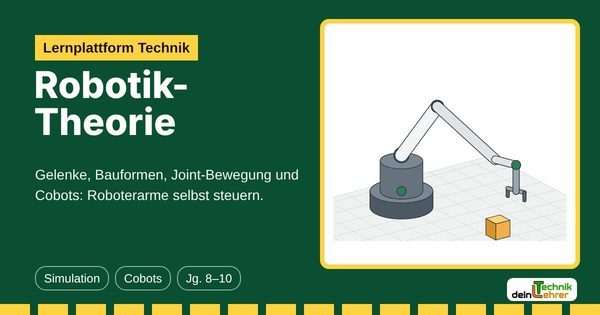
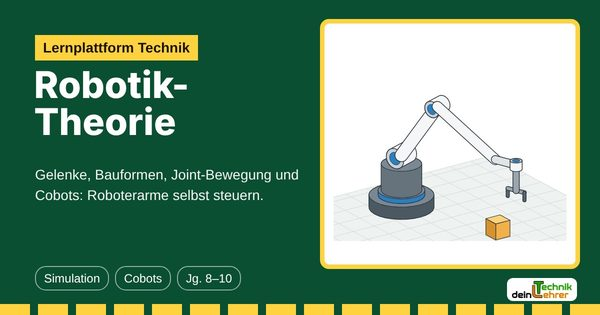
Robotik-Theorie: Roboter in moderner Formensprache, Vorschaubild
Claude-Session: https://claude.ai/code/session_01KjTLRWC4kcjaZHrBpALAoZ

diff --git a/robotik-theorie/index.html b/robotik-theorie/index.html
@@ -803,6 +803,27 @@ rect.rtg-link,rect.rtg-link2{fill:var(--rt-link2);stroke:var(--rt-out);stroke-wi
 @media (max-width:440px){.mi-row>span{flex:0 0 auto}}
 .rt-play{display:flex;gap:8px;align-items:center;margin:6px 0 2px}
 .rt-simfig{margin:12px 0}.rt-simfig>figcaption{font-size:14px;color:var(--muted);padding:6px 2px 0;max-width:640px}
+
+/* Roboter in moderner Formensprache (seit 28.11.2026): Gelenkgehäuse als Trommeln mit Akzentring */
+:root{--rt-acc:#2a7fc0;--rt-ind:#e2a21c;--rt-ind2:#c98c10;--rt-cobw:#f4f6f8;--rt-cobs:#c9d1d8}
+@media (prefers-color-scheme:dark){:root:not([data-theme="light"]){--rt-acc:#6fb3ea;--rt-ind:#d39a1a;--rt-ind2:#b07f12;--rt-cobw:#d6dde3;--rt-cobs:#9aa6b0}}
+:root[data-theme="dark"]{--rt-acc:#6fb3ea;--rt-ind:#d39a1a;--rt-ind2:#b07f12;--rt-cobw:#d6dde3;--rt-cobs:#9aa6b0}
+.rtg-drum{fill:var(--rt-cobw);stroke:var(--rt-out);stroke-width:1.5;stroke-linejoin:round}
+.rtg-drum.rtg-cap{fill:var(--rt-cobs)}
+.rtg-indd{fill:var(--rt-ind);stroke:var(--rt-out);stroke-width:1.5;stroke-linejoin:round}
+.rtg-indd.rtg-cap{fill:var(--rt-ind2)}
+.rtg-drumg{fill:var(--rt-link2);stroke:var(--rt-out);stroke-width:1.4}
+.rtg-drumg.rtg-cap{fill:var(--rt-tool)}
+.rtg-ring,.rtg-band{fill:var(--rt-acc);stroke:var(--rt-out);stroke-width:1}
+.rtg-ring.rtg-hl,.rtg-band.rtg-hl{fill:var(--rt-hl);stroke-width:2}
+.rtg-ringb{fill:var(--rt-acc);stroke:var(--rt-out);stroke-width:1.4}
+.rtg-ringb.rtg-hl{fill:var(--rt-hl)}
+.rtg-ind{fill:none;stroke-linecap:round;stroke:var(--rt-ind)}
+.rtg-ind2{fill:none;stroke-linecap:round;stroke:var(--rt-ind2)}
+.rtg-indt{fill:var(--rt-ind2);stroke:var(--rt-out);stroke-width:1.4}
+.rtg-cbase{fill:var(--rt-cobw);stroke:var(--rt-out);stroke-width:1.4}
+.rtg-cobot{stroke:var(--rt-cobw)}
+.rtg-link{stroke:var(--rt-cobw)}
 .szl{list-style:none;padding:0;margin:8px 0;display:grid;gap:10px}.szl li{display:grid;grid-template-columns:auto 1fr;gap:12px;align-items:center}.szi{display:inline-flex;gap:6px;min-width:44px}.szl .szi{flex-direction:column;width:44px}.szi svg,.szi .gfb-ico{width:44px;height:44px;flex:none}
 </style>
 <script>/* Sicherheitszeichen aus dem Tech-Board (Repo Unterrichtsboard, tech-board/index.html, TB_RULES/TB_HAZ).
@@ -891,6 +912,17 @@ var RTG = (function () {
     for (i = 0; i < n; i++) { a = i / n * 2 * Math.PI; bot.push(P(c, [cen[0] + rad * Math.cos(a), cen[1] + rad * Math.sin(a), h0])); top.push(P(c, [cen[0] + rad * Math.cos(a), cen[1] + rad * Math.sin(a), h1])); }
     var hu = hull(bot.concat(top)), d = P(c, [cen[0], cen[1], (h0 + h1) / 2])[2];
     L.push(d - 30, '<path class="' + (cls || 'rtg-base') + '" d="' + poly(hu) + '"/><path class="rtg-top" d="' + poly(top) + '"/>'); }
+  /* Gelenkgehäuse als Trommel (seit 28.11.2026, Formensprache moderner Roboter): Achse ax, Radius rad, halbe Breite half.
+     Die Stirnseite zum Betrachter bekommt einen Akzentring (hervorgehoben: rtg-hl). */
+  function cross(a, b) { return [a[1] * b[2] - a[2] * b[1], a[2] * b[0] - a[0] * b[2], a[0] * b[1] - a[1] * b[0]]; }
+  function nrmz(a) { var l = len(a) || 1; return [a[0] / l, a[1] / l, a[2] / l]; }
+  function drum(L, c, cen, ax, rad, half, cls, hl, lab) { ax = nrmz(ax); var t = Math.abs(ax[2]) < 0.9 ? [0, 0, 1] : [1, 0, 0], u = nrmz(cross(ax, t)), v = cross(ax, u), n = 26, i, a, e1 = [], e2 = [], ri = [];
+    var c1 = add(cen, mul(ax, half)), c2 = add(cen, mul(ax, -half)), toV = ax[0] * c.F[0] + ax[1] * c.F[1] + ax[2] * c.F[2], front = toV >= 0 ? c1 : c2;
+    for (i = 0; i < n; i++) { a = i / n * 2 * Math.PI; var o = add(mul(u, Math.cos(a)), mul(v, Math.sin(a))); e1.push(P(c, add(c1, mul(o, rad)))); e2.push(P(c, add(c2, mul(o, rad)))); ri.push(P(c, add(front, mul(o, rad * 0.62)))); }
+    var fr = toV >= 0 ? e1 : e2, d = P(c, cen)[2], rr = r1(rad * c.s), A = P(c, front);
+    L.push(d + 0.4, '<path class="' + (cls || 'rtg-drum') + '" d="' + poly(hull(e1.concat(e2))) + '"/><path class="' + (cls || 'rtg-drum') + ' rtg-cap" d="' + poly(fr) + '"/>' +
+      (Math.abs(toV) > 0.18 ? '<path class="rtg-ring' + (hl ? ' rtg-hl' : '') + '" d="' + poly(ri) + '"/>' : '<path class="rtg-band' + (hl ? ' rtg-hl' : '') + '" d="' + poly(hull(ri.concat(e2.map(function (q, k) { return ri[k]; })))) + '"/>'));
+    if (lab) { var P0 = P(c, cen); L.push(1e6, '<text class="rtg-jl' + (hl ? ' rtg-jlh' : '') + '" x="' + r1(P0[0] - rr - 8) + '" y="' + r1(P0[1] + 7) + '" text-anchor="end">' + lab + '</text>'); } }
   function box(L, c, mn, mx, cls, dd) { var x = [mn[0], mx[0]], y = [mn[1], mx[1]], z = [mn[2], mx[2]], v = [], i, j, k;
     for (i = 0; i < 2; i++) for (j = 0; j < 2; j++) for (k = 0; k < 2; k++) v.push([x[i], y[j], z[k]]);
     var F = [[0, 1, 3, 2], [4, 5, 7, 6], [0, 1, 5, 4], [2, 3, 7, 6], [0, 2, 6, 4], [1, 3, 7, 5]], nrm = [[-1, 0, 0], [1, 0, 0], [0, -1, 0], [0, 1, 0], [0, 0, -1], [0, 0, 1]], out = '';
@@ -929,17 +961,21 @@ var RTG = (function () {
     if (o.pad) { var pd = o.pad, ps = pd.s / 2; b += '<path class="rtg-pad" d="' + poly([P(c, [pd.x - ps, pd.y - ps, 0]), P(c, [pd.x + ps, pd.y - ps, 0]), P(c, [pd.x + ps, pd.y + ps, 0]), P(c, [pd.x - ps, pd.y + ps, 0])]) + '"/>'; }
     if (o.ghost && o.ghost.length > 1) b += '<path class="rtg-ghost" d="' + o.ghost.map(function (p, i) { var A = P(c, p); return (i ? 'L' : 'M') + A[0] + ' ' + A[1]; }).join('') + '"/>';
     if (o.path && o.path.length > 1) b += '<path class="rtg-path" d="' + o.path.map(function (p, i) { var A = P(c, p); return (i ? 'L' : 'M') + A[0] + ' ' + A[1]; }).join('') + '"/>';
-    cylinder(L, c, [0, 0], 62, 0, 34, 'rtg-base');
-    cylinder(L, c, [0, 0], 42, 34, A4.h0 - 12, 'rtg-turret');
+    var c1 = Math.cos(q[0] * D), s1 = Math.sin(q[0] * D), side = [-s1, c1, 0], J = o.jl ? ['J1', 'J2', 'J3', 'J4'] : [];
+    cylinder(L, c, [0, 0], 64, 0, 26, 'rtg-base');
+    cylinder(L, c, [0, 0], 46, 26, 36, 'rtg-ringb' + (o.hl === 0 ? ' rtg-hl' : ''));
+    cylinder(L, c, [0, 0], 40, 36, A4.h0 - 18, 'rtg-turret');
     capsule(L, c, K.S, K.E, 24, 'rtg-link');
-    capsule(L, c, K.E, K.W, 19, 'rtg-link2');
-    capsule(L, c, K.W, K.T, 13, 'rtg-link2');
-    capsule(L, c, K.T, add(K.P, [0, 0, 14]), 11, 'rtg-tool');
+    capsule(L, c, K.E, K.W, 19, 'rtg-link');
+    capsule(L, c, K.W, K.T, 14, 'rtg-link2');
+    capsule(L, c, K.T, add(K.P, [0, 0, 16]), 11, 'rtg-tool');
     var gr = gripR(q) * D, gd = [Math.cos(gr), Math.sin(gr), 0], gap = o.grip ? 9 : 20, f1 = add(K.P, mul(gd, gap)), f2 = add(K.P, mul(gd, -gap));
     capsule(L, c, add(f1, [0, 0, 16]), f1, 5, 'rtg-finger'); capsule(L, c, add(f2, [0, 0, 16]), f2, 5, 'rtg-finger');
     capsule(L, c, add(f1, [0, 0, 16]), add(f2, [0, 0, 16]), 6, 'rtg-tool');
-    var J = o.jl ? ['J1', 'J2', 'J3', 'J4'] : [];
-    joint(L, c, [0, 0, 34], 9, o.hl === 0, J[0]); joint(L, c, K.S, 15, o.hl === 1, J[1]); joint(L, c, K.E, 12, o.hl === 2, J[2]); joint(L, c, K.T, 9, o.hl === 3, J[3]);
+    if (J[0]) { var B0 = P(c, [0, 0, 30]); L.push(1e6, '<text class="rtg-jl' + (o.hl === 0 ? ' rtg-jlh' : '') + '" x="' + r1(B0[0] - 64 * c.s - 8) + '" y="' + r1(B0[1] + 7) + '" text-anchor="end">J1</text>'); }
+    drum(L, c, K.S, side, 21, 22, 'rtg-drum', o.hl === 1, J[1]);
+    drum(L, c, K.E, side, 17, 19, 'rtg-drum', o.hl === 2, J[2]);
+    drum(L, c, K.T, [0, 0, 1], 12, 9, 'rtg-drum', o.hl === 3, J[3]);
     if (o.cube) { var cu = o.cube, s = cu.s / 2, cz = cu.held ? K.P[2] - cu.s + 4 : cu.z, cx = cu.held ? K.P[0] : cu.x, cy = cu.held ? K.P[1] : cu.y;
       box(L, c, [cx - s, cy - s, cz], [cx + s, cy + s, cz + cu.s], 'rtg-cube', cu.held ? -2 : 0); }
     return { vb: '0 0 480 400', body: b + L.out() + (o.axes ? axes(c, 150, true) : ''), K: K, c: c }; }
@@ -956,16 +992,22 @@ var RTG = (function () {
   function robot6(q, o) { o = o || {}; var c = o.c || cam(-35, 22, 0.92, 150, 330), L = new List(), K = fk6(q), b = '';
     if (o.floor !== false) b += floor(c, o.fl || { x0: -150, x1: 380, y0: -260, y1: 260 });
     if (o.path && o.path.length > 1) b += '<path class="rtg-path" d="' + o.path.map(function (p, i) { var A = P(c, p); return (i ? 'L' : 'M') + A[0] + ' ' + A[1]; }).join('') + '"/>';
-    cylinder(L, c, [0, 0], 66, 0, 40, 'rtg-base');
-    cylinder(L, c, [0, 0], 46, 40, A6.h - 14, 'rtg-turret');
-    capsule(L, c, K.S, K.E, 26, o.cobot ? 'rtg-cobot' : 'rtg-link');
-    capsule(L, c, K.E, K.W, 20, o.cobot ? 'rtg-cobot' : 'rtg-link2');
-    capsule(L, c, K.W, K.F, 14, 'rtg-link2');
+    var cb = !!o.cobot, side = mv(K.M2, [0, 1, 0]), J = o.jl ? ['J1', 'J2', 'J3', 'J4', 'J5', 'J6'] : [], lk = cb ? 'rtg-cobot' : 'rtg-ind', dr = cb ? 'rtg-drum' : 'rtg-indd';
+    if (cb) { cylinder(L, c, [0, 0], 54, 0, 22, 'rtg-cbase'); cylinder(L, c, [0, 0], 40, 22, 32, 'rtg-ringb' + (o.hl === 0 ? ' rtg-hl' : '')); cylinder(L, c, [0, 0], 36, 32, A6.h - 22, 'rtg-cbase'); }
+    else { cylinder(L, c, [0, 0], 74, 0, 30, 'rtg-base'); cylinder(L, c, [0, 0], 58, 30, 42, 'rtg-ringb' + (o.hl === 0 ? ' rtg-hl' : '')); cylinder(L, c, [0, 0], 52, 42, A6.h - 24, 'rtg-indt'); }
+    var dEW = nrmz(sub(K.W, K.E));
+    if (!cb) capsule(L, c, add(K.E, mul(dEW, -48)), add(K.E, mul(dEW, 10)), 32, 'rtg-ind2');
+    capsule(L, c, K.S, K.E, cb ? 22 : 30, lk);
+    capsule(L, c, K.E, K.W, cb ? 18 : 22, lk);
+    capsule(L, c, K.W, K.F, cb ? 14 : 15, cb ? 'rtg-cobot' : 'rtg-link2');
     var gx = mv(K.M5, [1, 0, 0]), gz = mv(K.M5, [0, 0, 1]), gap = o.grip ? 8 : 18, f1 = add(K.F, mul(gx, gap)), f2 = add(K.F, mul(gx, -gap));
     capsule(L, c, f1, add(f1, mul(gz, 24)), 5, 'rtg-finger'); capsule(L, c, f2, add(f2, mul(gz, 24)), 5, 'rtg-finger'); capsule(L, c, f1, f2, 7, 'rtg-tool');
-    var J = o.jl ? ['J1', 'J2', 'J3', 'J4', 'J5', 'J6'] : [];
-    joint(L, c, [0, 0, 40], 9, o.hl === 0, J[0]); joint(L, c, K.S, 16, o.hl === 1, J[1]); joint(L, c, K.E, 13, o.hl === 2, J[2]);
-    joint(L, c, add(K.E, mv(K.M2, [0, 0, 55])), 8, o.hl === 3, J[3]); joint(L, c, K.W, 10, o.hl === 4, J[4]); joint(L, c, K.F, 7, o.hl === 5, J[5]);
+    if (J[0]) { var B0 = P(c, [0, 0, 34]); L.push(1e6, '<text class="rtg-jl' + (o.hl === 0 ? ' rtg-jlh' : '') + '" x="' + r1(B0[0] - (cb ? 54 : 74) * c.s - 8) + '" y="' + r1(B0[1] + 7) + '" text-anchor="end">J1</text>'); }
+    drum(L, c, K.S, side, cb ? 22 : 28, cb ? 22 : 30, dr, o.hl === 1, J[1]);
+    drum(L, c, K.E, side, cb ? 18 : 22, cb ? 19 : 24, dr, o.hl === 2, J[2]);
+    drum(L, c, add(K.E, mv(K.M2, [0, 0, 60])), mv(K.M2, [0, 0, 1]), cb ? 15 : 17, 7, dr, o.hl === 3, J[3]);
+    drum(L, c, K.W, side, cb ? 14 : 14, cb ? 15 : 15, dr, o.hl === 4, J[4]);
+    drum(L, c, add(K.F, mv(K.M4, [0, 0, -8])), mv(K.M4, [0, 0, 1]), 11, 6, cb ? 'rtg-drum' : 'rtg-drumg', o.hl === 5, J[5]);
     return { vb: '0 0 480 400', body: b + L.out(), K: K, c: c }; }
 
   /* ---------- Bauformen ---------- */
